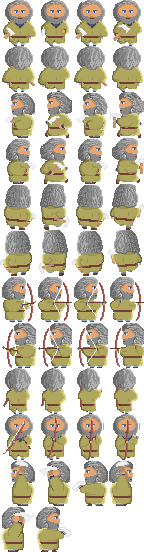
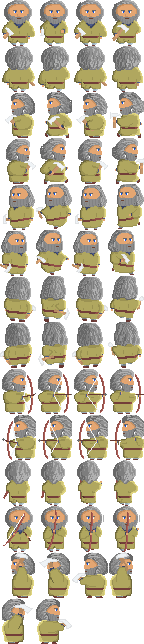
Add diagonal movement and animatinos

diff --git a/src/animation.rs b/src/animation.rs
@@ -79,16 +79,16 @@ fn change_animation<T: Component>(
             Animation::WalkUp => AnimationIndexRange(4, 7),
             Animation::WalkLeft => AnimationIndexRange(8, 11),
             Animation::WalkRight => AnimationIndexRange(12, 15),
-            Animation::WalkUpRight => AnimationIndexRange(16, 19),
-            Animation::WalkUpLeft => AnimationIndexRange(20, 23),
-            Animation::WalkDownRight => AnimationIndexRange(16, 19),
-            Animation::WalkDownLeft => AnimationIndexRange(20, 23),
-            Animation::ShootRight => AnimationIndexRange(24, 27),
-            Animation::ShootLeft => AnimationIndexRange(28, 31),
-            Animation::ShootUp => AnimationIndexRange(32, 35),
-            Animation::ShootDown => AnimationIndexRange(36, 39),
-            Animation::MeleeLeft => AnimationIndexRange(40, 42),
-            Animation::MeleeRight => AnimationIndexRange(43, 45),
+            Animation::WalkDownLeft => AnimationIndexRange(16, 19),
+            Animation::WalkDownRight => AnimationIndexRange(20, 23),
+            Animation::WalkUpRight => AnimationIndexRange(24, 27),
+            Animation::WalkUpLeft => AnimationIndexRange(28, 31),
+            Animation::ShootRight => AnimationIndexRange(32, 35),
+            Animation::ShootLeft => AnimationIndexRange(36, 39),
+            Animation::ShootUp => AnimationIndexRange(40, 42),
+            Animation::ShootDown => AnimationIndexRange(43, 45),
+            Animation::MeleeLeft => AnimationIndexRange(46, 48),
+            Animation::MeleeRight => AnimationIndexRange(49, 51),
         };
     }
 }

diff --git a/src/player.rs b/src/player.rs
@@ -23,7 +23,7 @@ fn spawn_player(
     mut texture_atlases: ResMut<Assets<TextureAtlas>>,
 ) {
     let image = assets.load("hero.png");
-    let atlas = TextureAtlas::from_grid(image, Vec2::new(SIZE_X, SIZE_Y), 4, 9);
+    let atlas = TextureAtlas::from_grid(image, Vec2::new(SIZE_X, SIZE_Y), 4, 14);
     let handle = texture_atlases.add(atlas);
 
     let sprite_sheet = SpriteSheetBundle {
